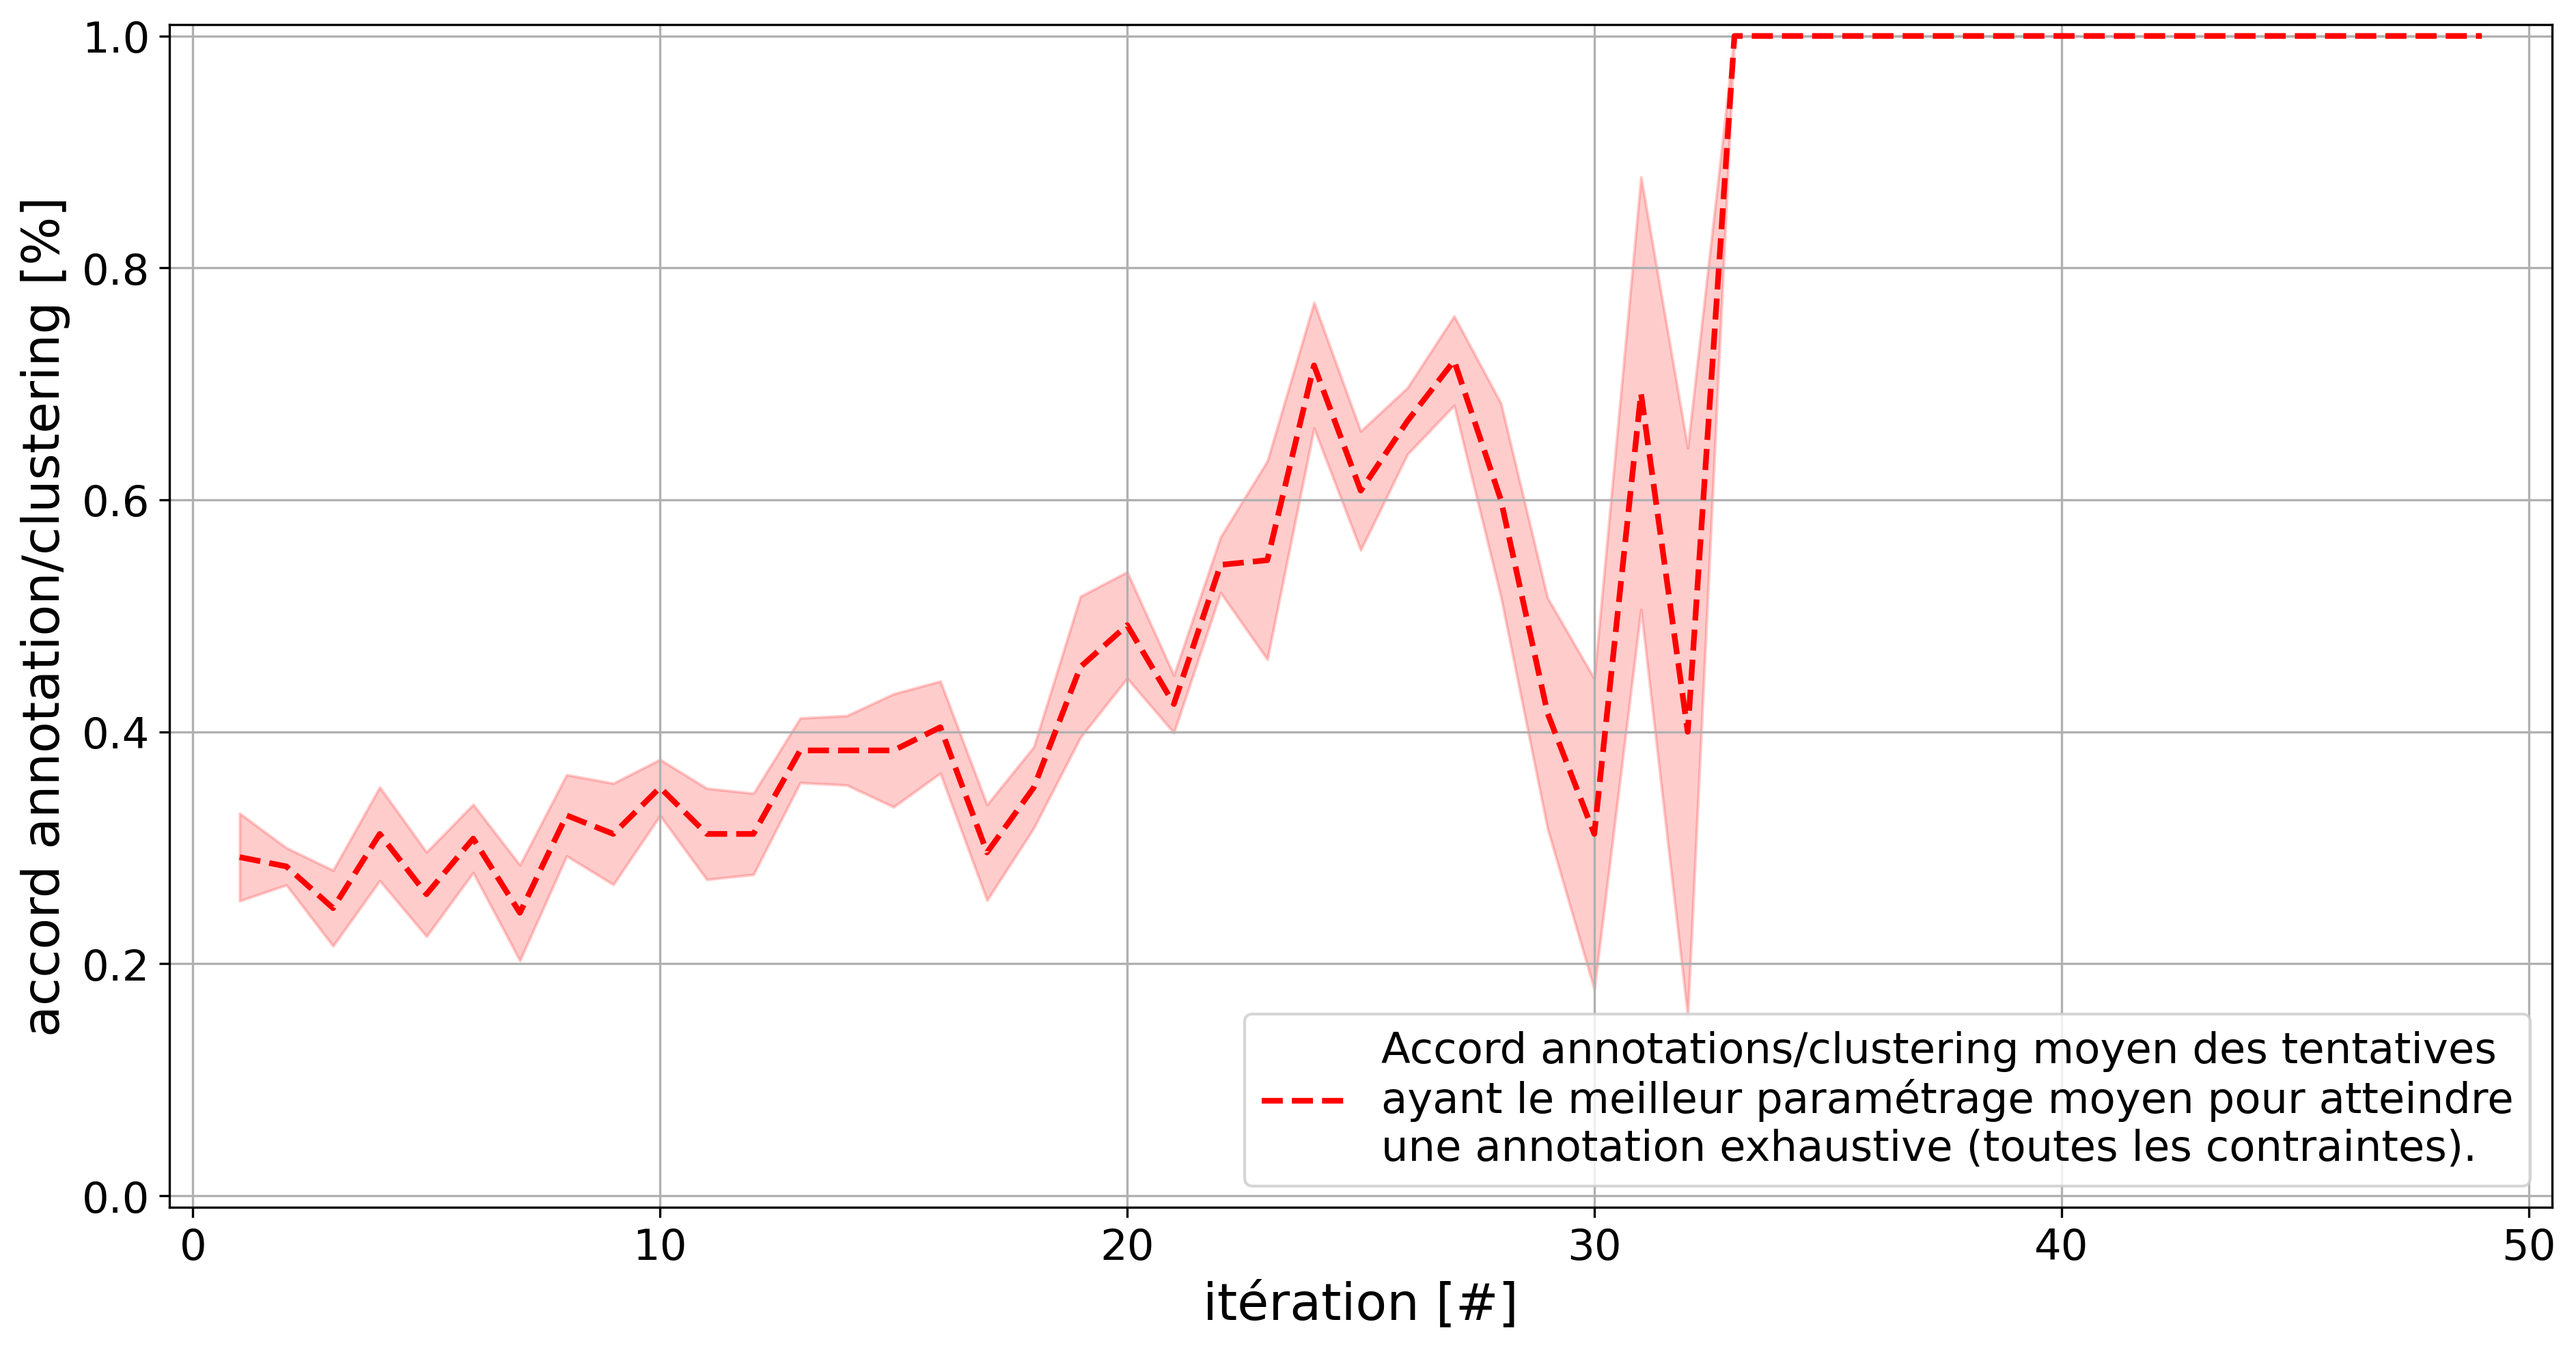
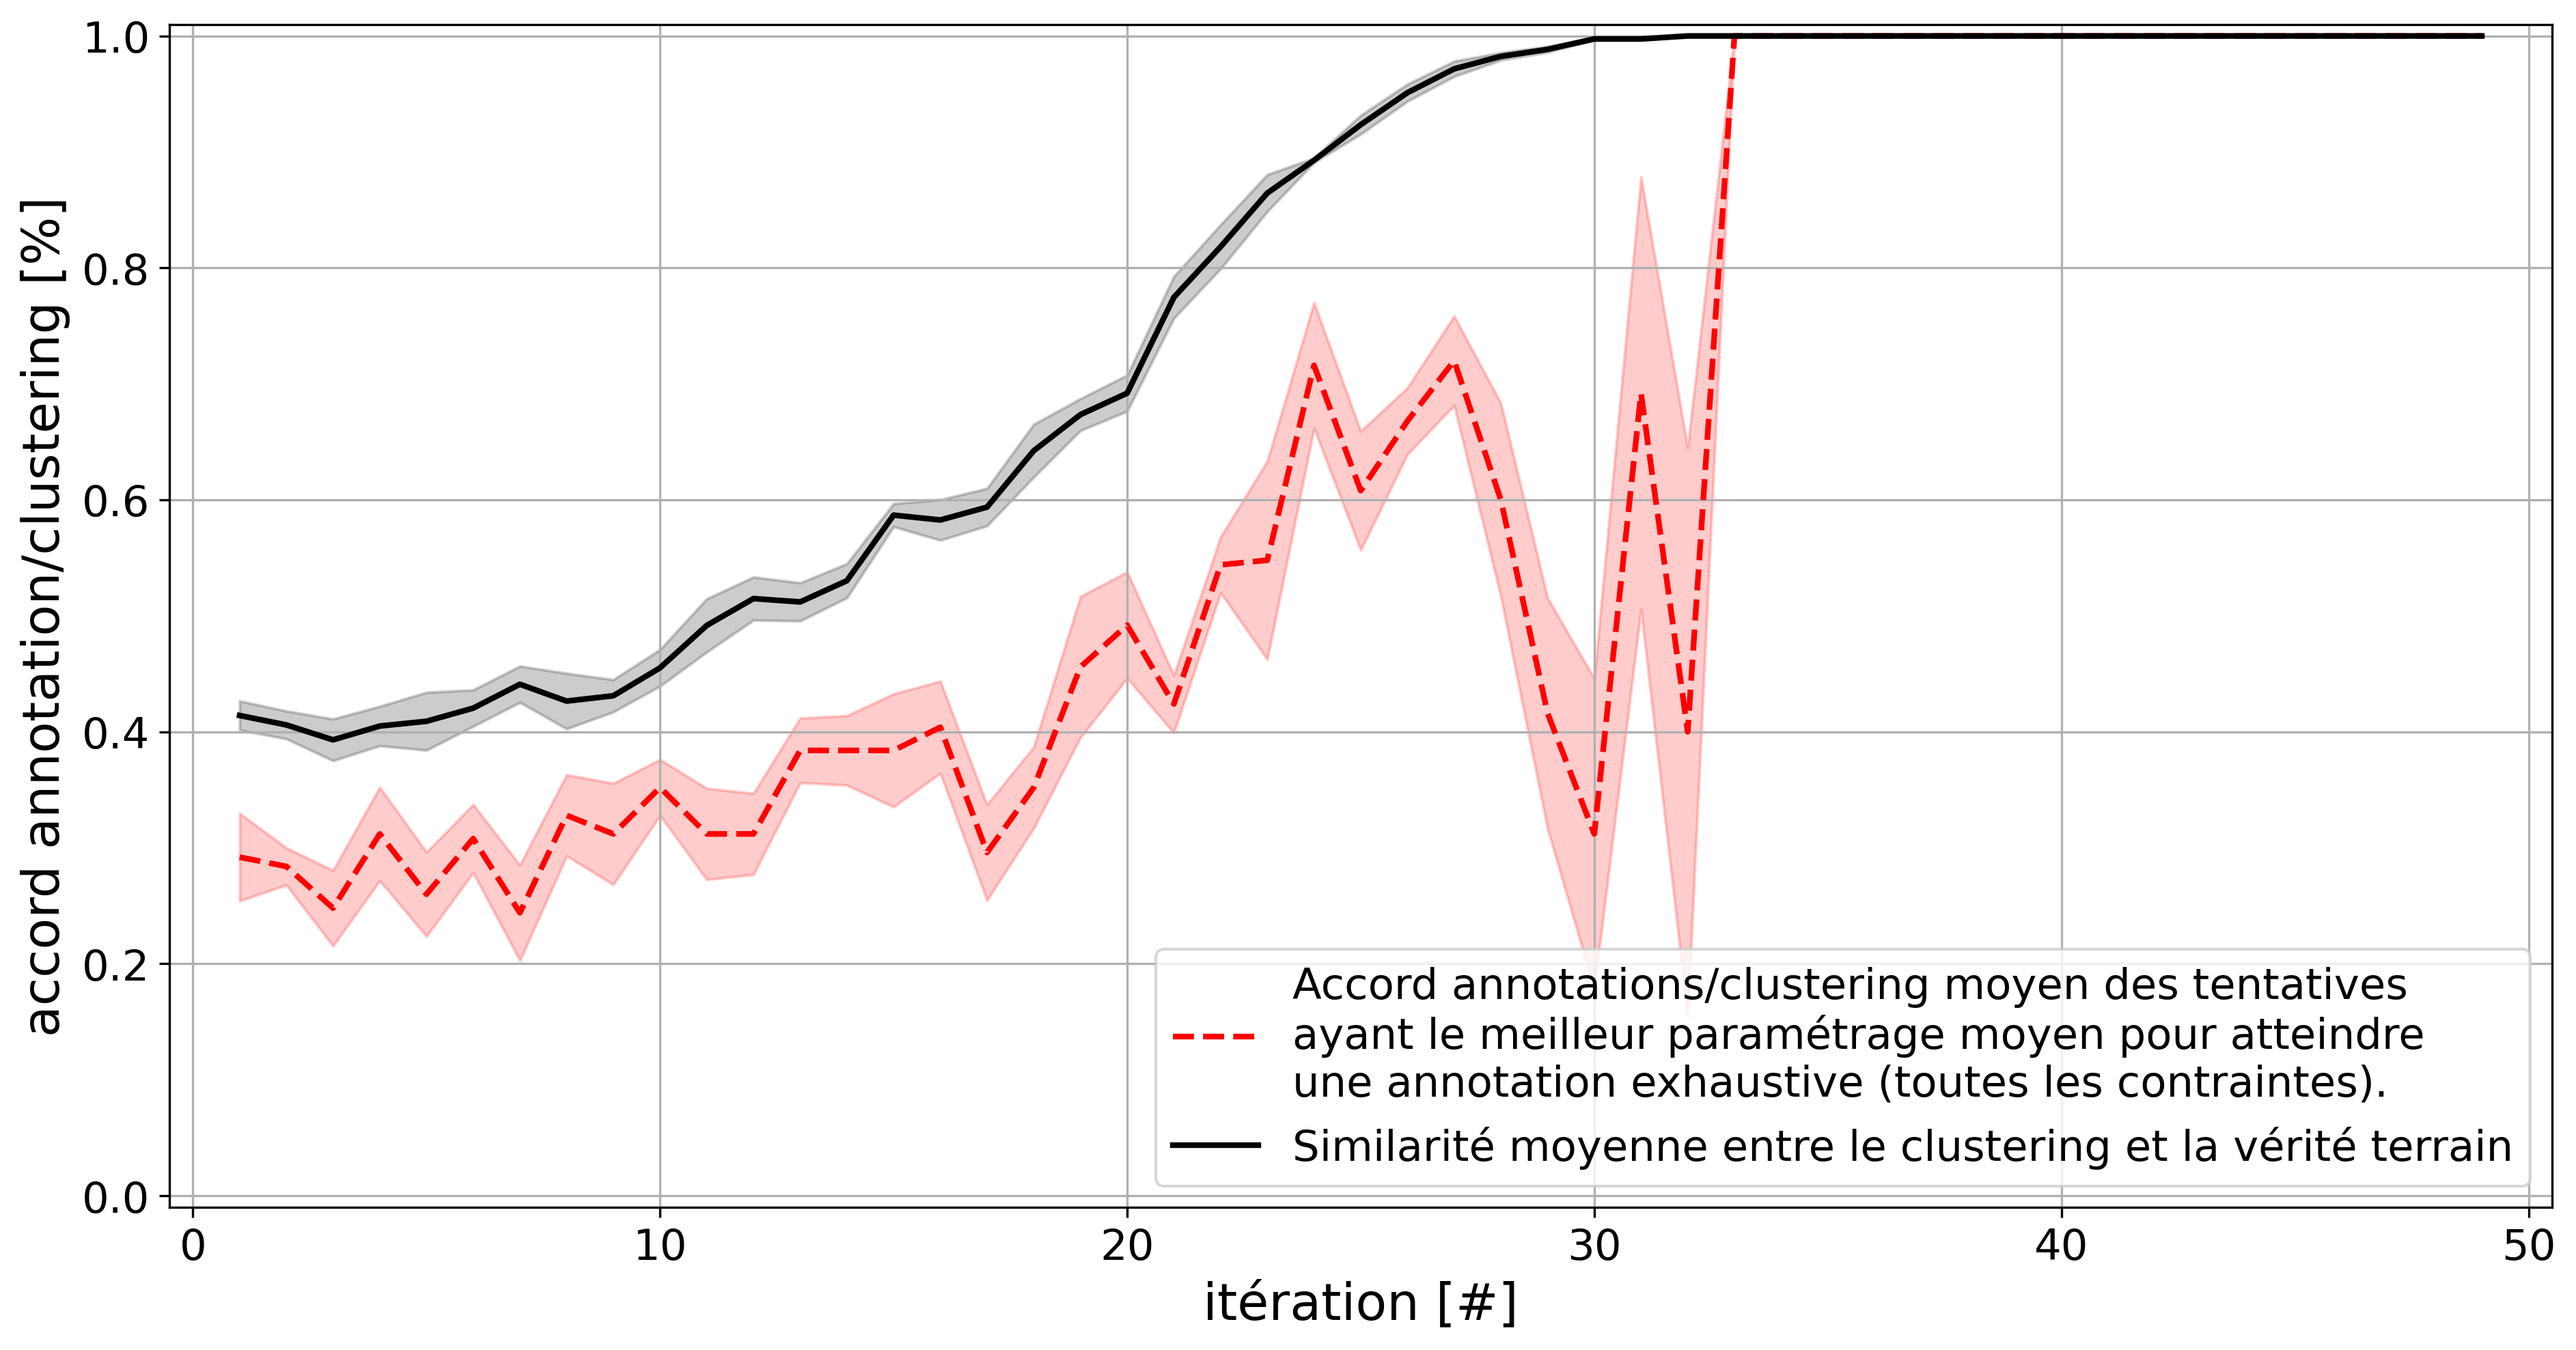
refactor: update figures of rentability study

diff --git a/6_rentability_study/notebook/annotation_agreement_score.py b/6_rentability_study/notebook/annotation_agreement_score.py
@@ -75,6 +75,7 @@ def display_annotation_agreement_score(
     list_of_experiments: List[str],
     list_of_iterations: Optional[List[str]] = None,
     plot_label: str = "Accord annotation/clustering.",
+    plot_groundtruth_label: str = "Similarité entre le clustering et la vérité terrain.",
     plot_color: str = "black",
     graph_filename: str = "annotation_agreement_score.png",
 ) -> Figure:
@@ -86,6 +87,7 @@ def display_annotation_agreement_score(
         list_of_experiments (List[str]). The list of files that represent experiments to analyze.
         list_of_iterations (Optional[List[str]]): The list of iterations used for display. Defaults to `None`.
         plot_label (str): The label of the plot. Defaults to `"Accord annotation/clustering."`.
+        plot_groundtruth_label (str): The label of the groundtruth plot. Defaults to `"Similarité entre le clustering et la vérité terrain."`.
         plot_color (str): The color of plot. Defaults to `"black"`.
         graph_filename (str): The graph filename. Default to `"annotation_agreement_score.png"`.
         
@@ -138,27 +140,67 @@ def display_annotation_agreement_score(
             annotation_agreement_scores: Dict[str, float] = json.load(file_scores_r)
         
         # For each requested iteration...
-        for iter_a in list_of_iterations:
+        for iter_2 in list_of_iterations:
 
             # Append the annotation agreement score for the current experiment and for this iteration.
-            if iter_a in annotation_agreement_scores.keys():
-                dict_of_annotation_agreement_score_evolution[iter_a].append(
-                    annotation_agreement_scores[iter_a]
+            if iter_2 in annotation_agreement_scores.keys():
+                dict_of_annotation_agreement_score_evolution[iter_2].append(
+                    annotation_agreement_scores[iter_2]
                 )
             # If iteration isn't reached by this experiment, add 1.0.
             else:
-                dict_of_annotation_agreement_score_evolution[iter_a].append(1.0)
+                dict_of_annotation_agreement_score_evolution[iter_2].append(1.0)
                 
 
     # Initialize storage of experiment annotation agreement score mean for all iterations.
     dict_of_annotation_agreement_score_evolution_MEAN: Dict[str, float] = {
-        iter_mean: np.mean(dict_of_annotation_agreement_score_evolution[iter_mean])
-        for iter_mean in list_of_iterations
+        iter_2m: np.mean(dict_of_annotation_agreement_score_evolution[iter_2m])
+        for iter_2m in list_of_iterations
     }
     # Initialize storage of experiment annotation agreement score standard error of the mean for all iterations.
     dict_of_annotation_agreement_score_evolution_SEM: Dict[str, float] = {
-        iter_sem: scipystats.sem(dict_of_annotation_agreement_score_evolution[iter_sem])
-        for iter_sem in list_of_iterations
+        iter_2s: scipystats.sem(dict_of_annotation_agreement_score_evolution[iter_2s])
+        for iter_2s in list_of_iterations
+    }
+        
+
+    # Initialize storage of experiment performances for all iterations.
+    dict_of_performances_evolution_per_iteration: Dict[str, List[float]] = {
+        iter_3i: []
+        for iter_3i in list_of_iterations
+    }
+    
+    # For each experiments.
+    for exp3 in list_of_experiments:
+        
+        # Load data.
+        with open("../experiments/" + implementation + "/previous_results___" + exp3, "r") as file_experiment_data_r:
+            experiment_data: Dict[str, Any] = json.load(file_experiment_data_r)
+        dict_of_clustering_performances: Dict[str, Dict[str, float]] = experiment_data["dict_of_clustering_performances"]
+
+        # For each requested iteration...
+        for iter_3 in list_of_iterations:
+
+            # Append the clustering performancre for the current experiment and for this iteration.
+            if iter_3 in dict_of_clustering_performances.keys():
+                dict_of_performances_evolution_per_iteration[iter_3].append(
+                    dict_of_clustering_performances[iter_3]["v_measure"]
+                )
+            # If iteration isn't reached by this experiment, duplicate the last known results.
+            # Most of the time: the experiment has reached annotation completeness and there is no more iteration because clustering is "perfect" (v-measure==1.0).
+            else:
+                dict_of_performances_evolution_per_iteration[iter_3].append(1.0)
+                
+    # Compute mean of performance evolution.
+    dict_of_performances_evolution_per_iteration_MEAN: Dict[str, Dict[str, float]] = {
+        iter_3m: np.mean(dict_of_performances_evolution_per_iteration[iter_3m])
+        for iter_3m in dict_of_performances_evolution_per_iteration.keys()
+    }
+        
+    # Compute sem of performance evolution.
+    dict_of_performances_evolution_per_iteration_SEM: Dict[str, Dict[str, float]] = {
+        iter_3s: scipystats.sem(dict_of_performances_evolution_per_iteration[iter_3s])
+        for iter_3s in dict_of_performances_evolution_per_iteration.keys()
     }
     
     # Create a new figure.
@@ -186,6 +228,26 @@ def display_annotation_agreement_score(
         y1=[(dict_of_annotation_agreement_score_evolution_MEAN[iter_errinf] - dict_of_annotation_agreement_score_evolution_SEM[iter_errinf]) for iter_errinf in list_of_iterations],  # y1
         y2=[(dict_of_annotation_agreement_score_evolution_MEAN[iter_errsup] + dict_of_annotation_agreement_score_evolution_SEM[iter_errsup]) for iter_errsup in list_of_iterations],  # y2
         color=plot_color,
+        alpha=0.2,
+    )
+
+    # Plot average performance of clustering.
+    axis_plot.plot(
+        [int(iter_mean) for iter_mean in list_of_iterations],  # x
+        [dict_of_performances_evolution_per_iteration_MEAN[iter_mean] for iter_mean in list_of_iterations],  # y
+        label=plot_groundtruth_label,
+        marker="",
+        markerfacecolor="black",
+        markersize=5,
+        color="black",
+        linewidth=2,
+        linestyle="-",
+    )
+    axis_plot.fill_between(
+        x=[int(iter_err) for iter_err in list_of_iterations],  # x
+        y1=[(dict_of_performances_evolution_per_iteration_MEAN[iter_errinf] - dict_of_performances_evolution_per_iteration_SEM[iter_errinf]) for iter_errinf in list_of_iterations],  # y1
+        y2=[(dict_of_performances_evolution_per_iteration_MEAN[iter_errsup] + dict_of_performances_evolution_per_iteration_SEM[iter_errsup]) for iter_errsup in list_of_iterations],  # y2
+        color="black",
         alpha=0.2,
     )
 

diff --git a/6_rentability_study/notebook/clustering_similarity.py b/6_rentability_study/notebook/clustering_similarity.py
@@ -80,7 +80,8 @@ def display_clustering_similarity(
     implementation: str,
     list_of_experiments: List[str],
     list_of_iterations: Optional[List[str]] = None,
-    plot_label: str = "Similarité entre deux itérations de clustering.",
+    plot_label: str = "Différence entre deux itérations de clustering.",
+    plot_groundtruth_label: str = "Similarité entre le clustering et la vérité terrain.",
     plot_color: str = "black",
     graph_filename: str = "clustering_similarity.png",
 ) -> Figure:
@@ -91,7 +92,8 @@ def display_clustering_similarity(
         implementation (str): The folder that represents the folder to display.
         list_of_experiments (List[str]). The list of files that represent experiments to analyze.
         list_of_iterations (Optional[List[str]]): The list of iterations used for display. Defaults to `None`.
-        plot_label (str): The label of the plot. Defaults to `"Similarité entre deux itérations de clustering."`.
+        plot_label (str): The label of the plot. Defaults to `"Différence entre deux itérations de clustering."`.
+        plot_groundtruth_label (str): The label of the groundtruth plot. Defaults to `"Similarité entre le clustering et la vérité terrain."`.
         plot_color (str): The color of plot. Defaults to `"black"`.
         graph_filename (str): The graph filename. Default to `"clustering_similarity.png"`.
         
@@ -149,11 +151,11 @@ def display_clustering_similarity(
             # Append the clustering similarity for the current experiment and for this iteration.
             if iter_2 in clustering_similarity["similarity"].keys():
                 dict_of_clustering_similarity_evolution[iter_2].append(
-                    clustering_similarity["similarity"][iter_2]
+                    1-clustering_similarity["similarity"][iter_2]
                 )
             # If iteration isn't reached by this experiment, add 1.0.
             else:
-                dict_of_clustering_similarity_evolution[iter_2].append(1.0)
+                dict_of_clustering_similarity_evolution[iter_2].append(0.0)
                 
 
     # Initialize storage of experiment clustering similarity mean for all iterations.
@@ -239,7 +241,7 @@ def display_clustering_similarity(
     axis_plot.plot(
         [int(iter_mean) for iter_mean in list_of_iterations],  # x
         [dict_of_performances_evolution_per_iteration_MEAN[iter_mean] for iter_mean in list_of_iterations],  # y
-        label="Similarité moyenne entre le clustering et la vérité terrain",
+        label=plot_groundtruth_label,
         marker="",
         markerfacecolor="black",
         markersize=5,
@@ -262,7 +264,7 @@ def display_clustering_similarity(
     plt.yticks(fontsize=15)
 
     # Plot the legend.
-    axis_plot.legend(fontsize=15, loc="lower right")
+    axis_plot.legend(fontsize=15, loc="center right")
 
     # Plot the grid.
     axis_plot.grid(True)
